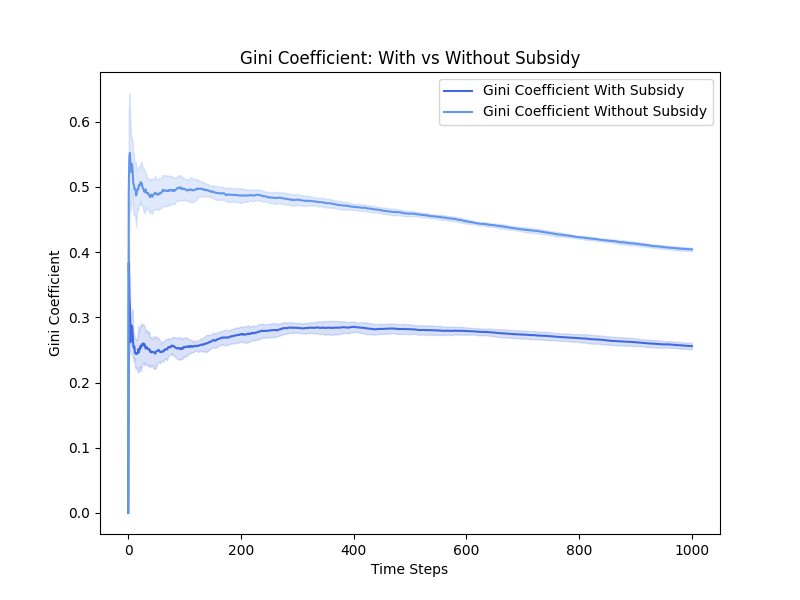
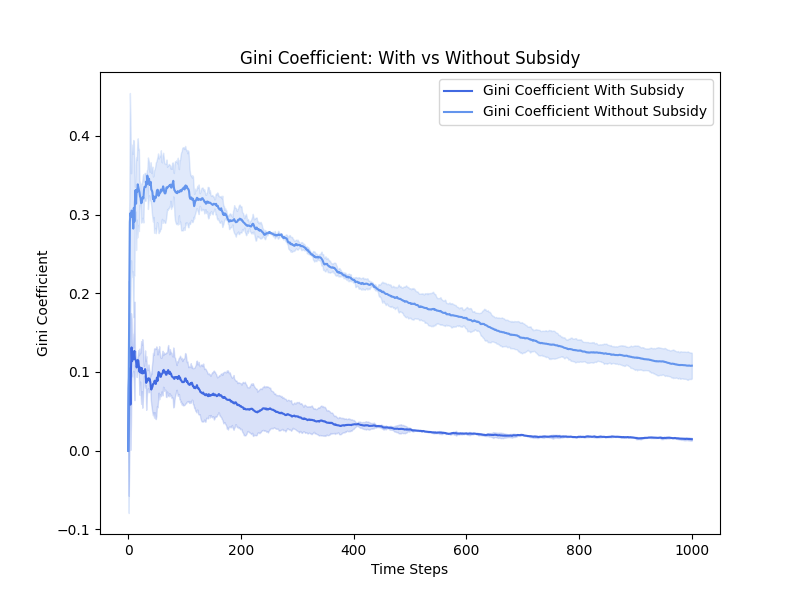
random grid

diff --git a/city.py b/city.py
@@ -13,7 +13,7 @@ class CityModel(Model):
     based on income, education, environmental consciousness, government subsidies, and social dynamics. """
 
     def __init__(self, width=120, height=120, num_agents=10000, subsidy=1, subsidy_timestep=0, max_steps=200, beta1 = 0.35,
-        beta2 = 0.05, beta3 = 0.5, beta4 = 0.2, beta5 = 0.3, beta6 = 0.3, beta7 = 0.6):
+        beta2 = 0.05, beta3 = 0.5, beta4 = 0.2, beta5 = 0.3, beta6 = 0.3, beta7 = 0.6, flag_random=0):
         """
         Initialize the CityModel.
 
@@ -65,93 +65,141 @@ class CityModel(Model):
             "Between-Class Gini": gini_between_income_classes
             }
         )
-
-        # 11 neighborhoods with different income distributions and spatial geometry
-        neighborhoods = [
-            {"x_range": (0, 84), "y_range": (0, 64), "income_dist": [1, 2, 3], "weights": [0.85, 0.15, 0.0]},     
-            {"x_range": (84, 120), "y_range": (66, 120), "income_dist": [1, 2, 3], "weights": [0.6, 0.39, 0.01]},     
-            {"x_range": (0, 39), "y_range": (38, 64), "income_dist": [1, 2, 3], "weights": [0.75, 0.25, 0.0]},    
-            {"x_range": (39, 51), "y_range": (46, 64), "income_dist": [2, 3, 1], "weights": [0.7, 0.2, 0.1]},    
-            {"x_range": (39, 51), "y_range": (38, 46), "income_dist": [2, 1, 3], "weights": [0.7, 0.2, 0.1]},   
-            {"x_range": (51, 57), "y_range": (38, 42), "income_dist": [2, 3, 1], "weights": [0.7, 0.2, 0.1]},   
-            {"x_range": (51, 94), "y_range": (42, 64), "income_dist": [3, 2, 1], "weights": [0.7, 0.3, 0.0]},    
-            {"x_range": (94, 120), "y_range": (42, 66), "income_dist": [2, 1, 3], "weights": [0.7, 0.1, 0.2]},    
-            {"x_range": (57, 120), "y_range": (0, 42), "income_dist": [3, 2, 1], "weights": [0.7, 0.3, 0.0]},    
-            {"x_range": (0, 84), "y_range": (64, 66), "income_dist": [3, 2, 1], "weights": [0.7, 0.3, 0.0]}, 
-            {"x_range": (0, 84), "y_range": (64, 120), "income_dist": [2, 3, 1], "weights": [0.7, 0.2, 0.1]} 
-        ]
-
-
-        for n in neighborhoods:
-            x_min, x_max = n["x_range"]
-            y_min, y_max = n["y_range"]
-            n["area"] = (x_max - x_min) * (y_max - y_min)
-
-        total_area = sum(n["area"] for n in neighborhoods)
-        area_weights = [n["area"] / total_area for n in neighborhoods]
+     
+        if flag_random == 0:
+            # 11 neighborhoods with different income distributions and spatial geometry
+            neighborhoods = [
+                {"x_range": (0, 84), "y_range": (0, 64), "income_dist": [1, 2, 3], "weights": [0.85, 0.15, 0.0]},     
+                {"x_range": (84, 120), "y_range": (66, 120), "income_dist": [1, 2, 3], "weights": [0.6, 0.39, 0.01]},     
+                {"x_range": (0, 39), "y_range": (38, 64), "income_dist": [1, 2, 3], "weights": [0.75, 0.25, 0.0]},    
+                {"x_range": (39, 51), "y_range": (46, 64), "income_dist": [2, 3, 1], "weights": [0.7, 0.2, 0.1]},    
+                {"x_range": (39, 51), "y_range": (38, 46), "income_dist": [2, 1, 3], "weights": [0.7, 0.2, 0.1]},   
+                {"x_range": (51, 57), "y_range": (38, 42), "income_dist": [2, 3, 1], "weights": [0.7, 0.2, 0.1]},   
+                {"x_range": (51, 94), "y_range": (42, 64), "income_dist": [3, 2, 1], "weights": [0.7, 0.3, 0.0]},    
+                {"x_range": (94, 120), "y_range": (42, 66), "income_dist": [2, 1, 3], "weights": [0.7, 0.1, 0.2]},    
+                {"x_range": (57, 120), "y_range": (0, 42), "income_dist": [3, 2, 1], "weights": [0.7, 0.3, 0.0]},    
+                {"x_range": (0, 84), "y_range": (64, 66), "income_dist": [3, 2, 1], "weights": [0.7, 0.3, 0.0]}, 
+                {"x_range": (0, 84), "y_range": (64, 120), "income_dist": [2, 3, 1], "weights": [0.7, 0.2, 0.1]} 
+            ]
 
 
-        next_id = 0  # track agent IDs
+            for n in neighborhoods:
+                x_min, x_max = n["x_range"]
+                y_min, y_max = n["y_range"]
+                n["area"] = (x_max - x_min) * (y_max - y_min)
 
-        while next_id < self.num_agents:
-            # Select neighborhood based on area weight
-            neighborhood = random.choices(neighborhoods, weights=area_weights, k=1)[0]
-            x_min, x_max = neighborhood["x_range"]
-            y_min, y_max = neighborhood["y_range"]
+            total_area = sum(n["area"] for n in neighborhoods)
+            area_weights = [n["area"] / total_area for n in neighborhoods]
 
-            # Random position within the selected neighborhood
-            x = self.random.randrange(x_min, x_max)
-            y = self.random.randrange(y_min, y_max)
 
-            agent = Household(next_id, self)
-            # Set income level based on neighborhood distribution
-            income = random.choices(neighborhood["income_dist"], weights=neighborhood["weights"])[0]
-            agent.set_income(income)
-            # Random environmental & behavioral traits
-            agent.set_environmental_consciousness(random.uniform(0, 1))
-            agent.set_stubborness_factor(random.uniform(0, 1))
+            next_id = 0  # track agent IDs
 
-            # Set education and housing type based on income
-            if income == 1:
-                education = random.choices([1, 2, 3], weights=[0.1, 0.6, 0.3])[0]
-                agent_type = random.choices([1, 2], weights=[0.2, 0.8])[0]
-            elif income == 2:
-                education = random.choices([1, 2, 3], weights=[0.05, 0.2, 0.75])[0]
-                agent_type = random.choices([1, 2], weights=[0.5, 0.5])[0]
-            else:
-                education = random.choices([1, 2, 3], weights=[0.01, 0.1, 0.89])[0]
-                agent_type = random.choices([1, 2], weights=[0.8, 0.2])[0]
+            while next_id < self.num_agents:
+                # Select neighborhood based on area weight
+                neighborhood = random.choices(neighborhoods, weights=area_weights, k=1)[0]
+                x_min, x_max = neighborhood["x_range"]
+                y_min, y_max = neighborhood["y_range"]
 
-            agent.set_education_level(education)
-            agent.set_subsidy(0)
-            placed = False
-            max_tries = 100
-            for _ in range(max_tries):
+                # Random position within the selected neighborhood
                 x = self.random.randrange(x_min, x_max)
                 y = self.random.randrange(y_min, y_max)
-                contents = self.grid.get_cell_list_contents((x, y))
 
-                if agent_type == 1: # House: cell must be empty
-                    if not contents:
-                        placed = True
-                        break
-                elif agent_type == 2: # Apartment: can share cell with other apartments
-                    if all(a.type == 2 for a in contents):
-                        placed = True
-                        break
-            if not placed:
-                continue  
+                agent = Household(next_id, self)
+                # Set income level based on neighborhood distribution
+                income = random.choices(neighborhood["income_dist"], weights=neighborhood["weights"])[0]
+                agent.set_income(income)
+                # Random environmental & behavioral traits
+                agent.set_environmental_consciousness(random.uniform(0, 1))
+                agent.set_stubborness_factor(random.uniform(0, 1))
 
-            agent.set_type(agent_type)
-            self.grid.place_agent(agent, (x, y))
-            self.schedule.add(agent)
-            self.incomes[income]["count"] += 1
-            if agent_type == 1:
-                self.incomes[income]["houses"] += 1
-            else:
-                self.incomes[income]["apartments"] += 1
-            next_id += 1
-        
+                # Set education and housing type based on income
+                if income == 1:
+                    education = random.choices([1, 2, 3], weights=[0.1, 0.6, 0.3])[0]
+                    agent_type = random.choices([1, 2], weights=[0.2, 0.8])[0]
+                elif income == 2:
+                    education = random.choices([1, 2, 3], weights=[0.05, 0.2, 0.75])[0]
+                    agent_type = random.choices([1, 2], weights=[0.5, 0.5])[0]
+                else:
+                    education = random.choices([1, 2, 3], weights=[0.01, 0.1, 0.89])[0]
+                    agent_type = random.choices([1, 2], weights=[0.8, 0.2])[0]
+
+                agent.set_education_level(education)
+                agent.set_subsidy(0)
+                placed = False
+                max_tries = 100
+                for _ in range(max_tries):
+                    x = self.random.randrange(x_min, x_max)
+                    y = self.random.randrange(y_min, y_max)
+                    contents = self.grid.get_cell_list_contents((x, y))
+
+                    if agent_type == 1: # House: cell must be empty
+                        if not contents:
+                            placed = True
+                            break
+                    elif agent_type == 2: # Apartment: can share cell with other apartments
+                        if all(a.type == 2 for a in contents):
+                            placed = True
+                            break
+                if not placed:
+                    continue  
+
+                agent.set_type(agent_type)
+                self.grid.place_agent(agent, (x, y))
+                self.schedule.add(agent)
+                self.incomes[income]["count"] += 1
+                if agent_type == 1:
+                    self.incomes[income]["houses"] += 1
+                else:
+                    self.incomes[income]["apartments"] += 1
+                next_id += 1
+            
+        else:
+            # Randomly place agents across the grid without neighborhood structure
+            next_id = 0
+            while next_id < self.num_agents:  
+                agent = Household(next_id, self)
+                # Randomly assign income level
+                income = self.random.choice([1, 2, 3])
+                agent.set_income(income)
+                # Random environmental & behavioral traits
+                agent.set_environmental_consciousness(self.random.uniform(0, 1))
+                agent.set_stubborness_factor(self.random.uniform(0, 1))
+
+                # Set education and housing type 
+                education = self.random.choices([1, 2, 3])[0]
+                agent_type = self.random.choices([1, 2])[0]
+                
+                agent.set_type(agent_type)
+                agent.set_education_level(education)
+                agent.set_subsidy(0)
+                
+                placed = False
+                max_tries = 100
+                for _ in range(max_tries):
+                    x = self.random.randrange(self.grid.width)
+                    y = self.random.randrange(self.grid.height)
+                    contents = self.grid.get_cell_list_contents((x,y))
+
+                    if agent_type == 1: # House: cell must be empty
+                        if not contents:
+                            placed = True
+                            break
+                    elif agent_type == 2: # Apartment: can share cell with other apartments
+                        if all(a.type == 2 for a in contents):
+                            placed = True
+                            break
+                if not placed:
+                    continue
+                
+                self.grid.place_agent(agent, (x, y))
+                self.schedule.add(agent)
+                self.incomes[income]["count"] += 1
+                if agent_type == 1:
+                    self.incomes[income]["houses"] += 1
+                else:
+                    self.incomes[income]["apartments"] += 1
+                next_id += 1
+            
         self.datacollector.collect(self)
         
     

diff --git a/run_emergence.py b/run_emergence.py
@@ -28,6 +28,7 @@ def run_model_comparison(args):
         beta5=args.beta5,
         beta6=args.beta6,
         beta7=args.beta7,
+        flag_random=args.flag_random
     )
 
 
@@ -45,6 +46,7 @@ def run_model_comparison(args):
         beta5=args.beta5,
         beta6=args.beta6,
         beta7=args.beta7,
+        flag_random=args.flag_random
     )
 
     # Run both models
@@ -154,6 +156,8 @@ def main():
     parser.add_argument('--num_agents', type=int, default=10000, help='Number of agents in the model')
     parser.add_argument('--subsidy_timestep', type=int, default=0, help='Timestep at which subsidy starts')
     parser.add_argument('--max_steps', type=int, default=1000, help='Number of simulation steps')
+    parser.add_argument('--flag_random', type=int, default=0, help='Randomize grid generation(1) or not (0)')
+
     
     # Beta parameters
     parser.add_argument('--beta1', type=float, default=0.35, help='Weight for income')

diff --git a/run.py b/run.py
@@ -28,6 +28,8 @@ def parse_arguments():
     parser.add_argument('--subsidy', type=int, default=1, help='Enable subsidy (1) or not (0)')
     parser.add_argument('--subsidy_timestep', type=int, default=0, help='Time step when subsidy starts')
     parser.add_argument('--num_steps', type=int, default=200, help='Number of steps to simulate')
+    parser.add_argument('--flag_random', type=int, default=0, help='Randomize grid generation(1) or not (0)')
+
     # Beta parameters
     parser.add_argument('--beta1', type=float, default=0.35, help='Weight for income')
     parser.add_argument('--beta2', type=float, default=0.05, help='Weight for environmental consciousness')
@@ -65,6 +67,7 @@ def run_simulation(args):
         beta5=args.beta5,
         beta6=args.beta6,
         beta7=args.beta7,
+        flag_random=args.flag_random
     )
 
     for step in range(args.num_steps):

diff --git a/server.py b/server.py
@@ -40,6 +40,7 @@ def main():
     parser.add_argument('--subsidy', type=int, default=1, help='Enable subsidy (1) or not (0)')
     parser.add_argument('--subsidy_timestep', type=int, default=0, help='Timestep at which subsidy is applied')
     parser.add_argument('--max_steps', type=int, default=500, help='Number of steps the model should run')
+    parser.add_argument('--flag_random', type=int, default=0, help='Randomize grid generation(1) or not (0)')
 
     # Beta parameters
     parser.add_argument('--beta1', type=float, default=0.35, help='Weight for income')
@@ -72,6 +73,7 @@ def main():
         "beta5": args.beta5,
         "beta6": args.beta6,
         "beta7": args.beta7,
+        "flag_random": args.flag_random
     }
 
     server = ModularServer(
